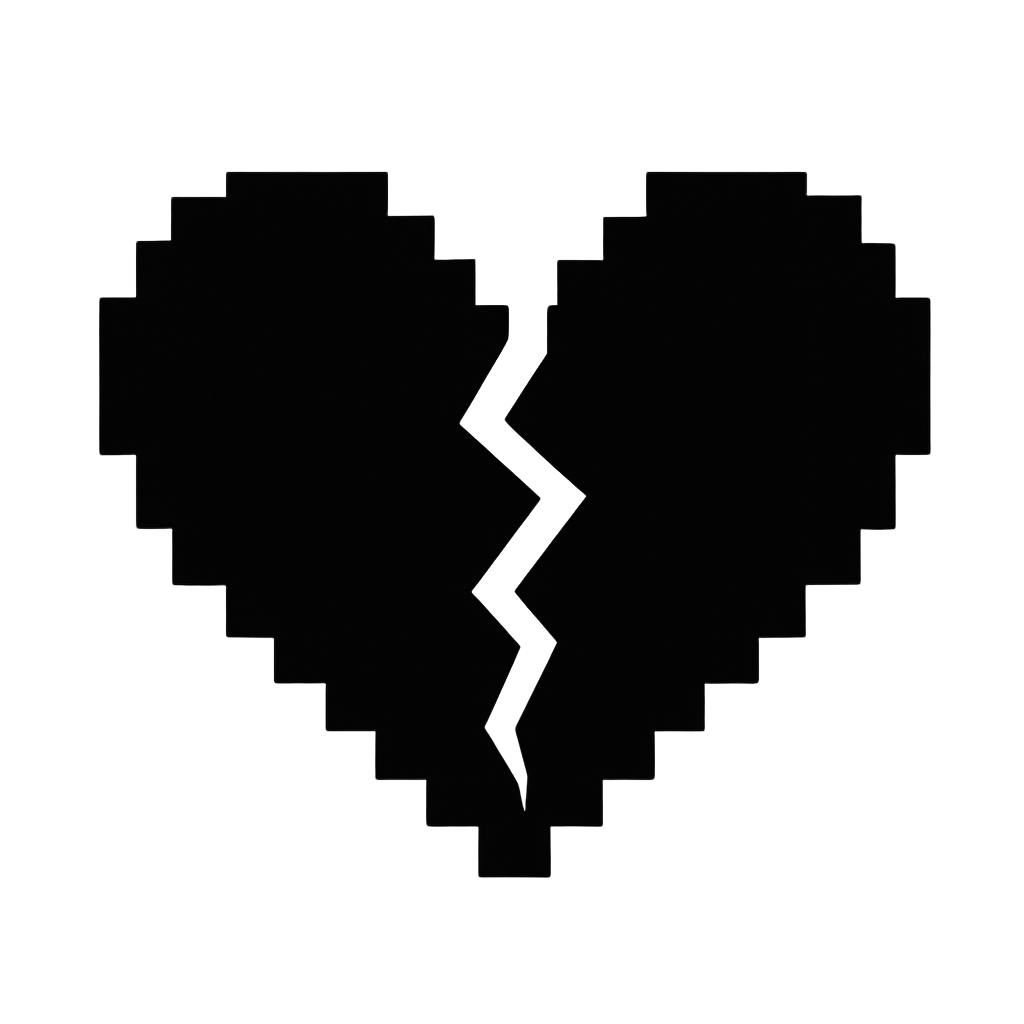
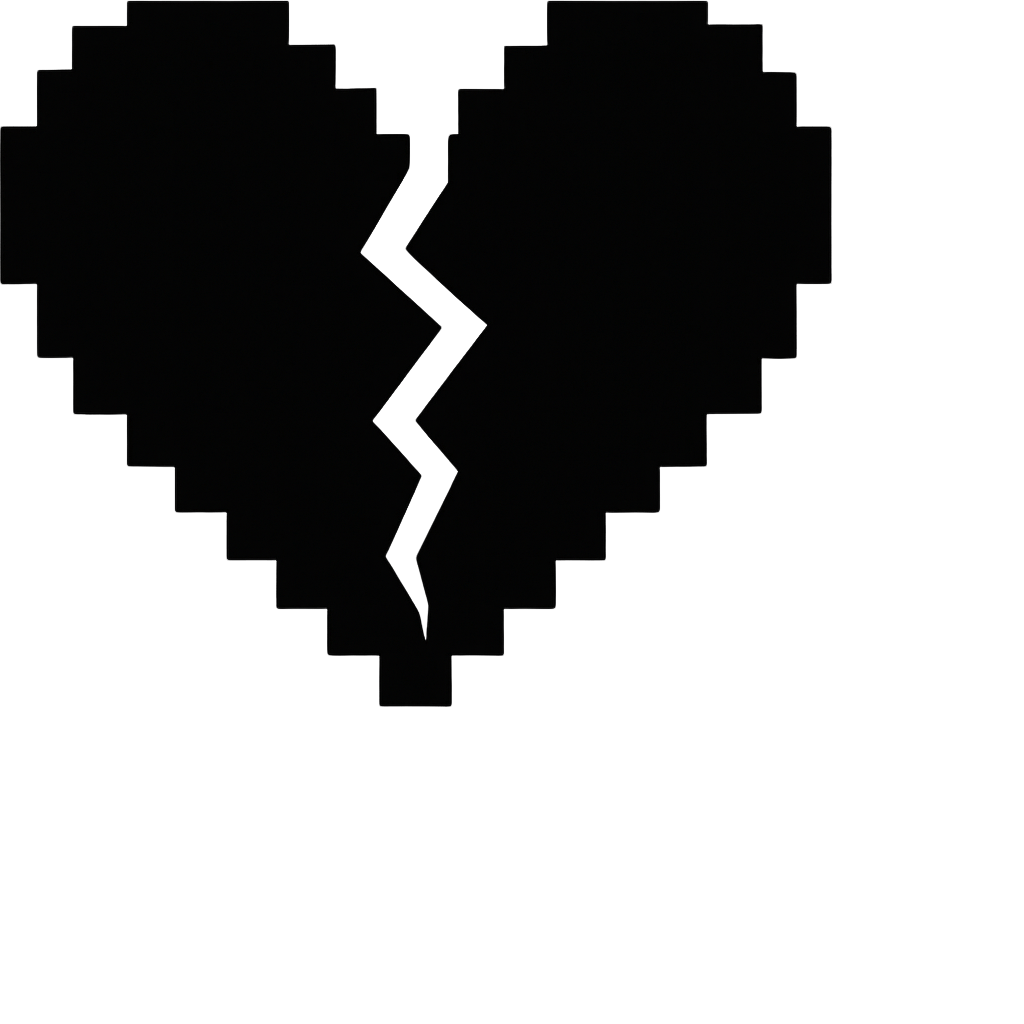
Hartjes nu even groot.

diff --git a/Levens_script.js b/Levens_script.js
@@ -26,13 +26,11 @@ const levels = [
   "../UX_pagina/pagina_8.html",
   "../UX_pagina/pagina_9.html",
   "../UX_pagina/pagina_10.html",
-  "../UX_pagina/search-engine.html",
   "../UX_pagina/search-engine1.html",
   "../UX_pagina/search-engine2.html",
   "../UX_pagina/search-engine3.html",
   "../UX_pagina/search-engine4.html",
   "../UX_pagina/search-engine5.html",
-  "../UX_pagina/social-media-pagina.html",
   "../UX_pagina/social-media-pagina1.html",
   "../UX_pagina/social-media-pagina2.html",
   "../UX_pagina/social-media-pagina3.html",
